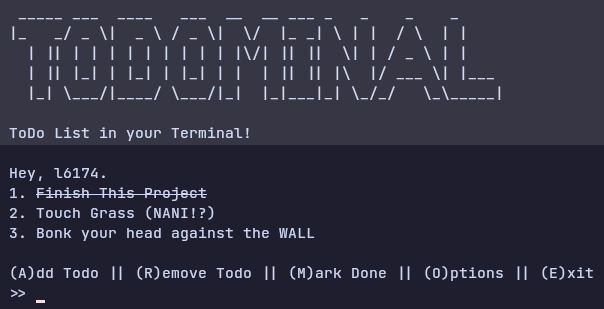
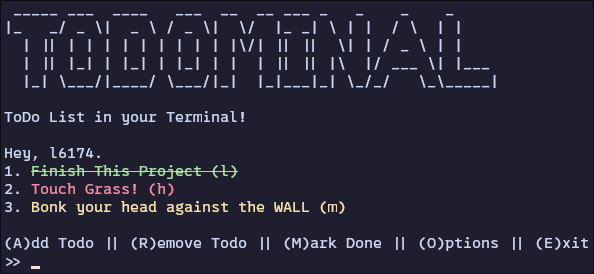
Fixed Rofi Support with Priorities

diff --git a/src/main.cpp b/src/main.cpp
@@ -13,10 +13,10 @@ const string userHome = getenv("HOME");
 const string mainFile = userHome + "/.config/todominal/todos.txt";
 
 // Define colors for priorities
-const string RED = "\033[1;31m";
-const string YELLOW = "\033[1;33m";
-const string GREEN = "\033[1;32m";
-const string RESET = "\033[0m";
+string RED = "\033[1;31m";
+string YELLOW = "\033[1;33m";
+string GREEN = "\033[1;32m";
+string RESET = "\033[0m";
 
 // Function to remove a line from a specific line from a file
 void removeLine(const string& filename, int lineNumberToRemove) {
@@ -153,11 +153,11 @@ void printTodo() {
         string line;
         while (getline(todos, line)) {
             string color;
-            if (line.find("[h]") != string::npos) {
+            if (line.find("(h)") != string::npos) {
                 color = RED;
-            } else if (line.find("[m]") != string::npos) {
+            } else if (line.find("(m)") != string::npos) {
                 color = YELLOW;
-            } else if (line.find("[l]") != string::npos) {
+            } else if (line.find("(l)") != string::npos) {
                 color = GREEN;
             } else {
                 color = RESET;
@@ -172,8 +172,43 @@ void printTodo() {
     }
 }
 
+void printTodoRofi() {
+    RED = "<span foreground=\"#f38ba8\">";
+    YELLOW = "<span foreground=\"#f9e2af\">";
+    GREEN = "<span foreground=\"#a6e3a1\">";
+    RESET = "</span>";
+    int i = 1;
+    ifstream todos(mainFile);
+    if (todos.is_open()) {
+        string line;
+        while (getline(todos, line)) {
+            string color;
+            if (line.find("(h)") != string::npos) {
+                color = RED;
+            } else if (line.find("(m)") != string::npos) {
+                color = YELLOW;
+            } else if (line.find("(l)") != string::npos) {
+                color = GREEN;
+            } else {
+                color = "<span>";
+            }
+            cout << i << ". " << color << line << RESET << endl;
+            i++;
+        }
+        todos.close();
+    } else {
+        cerr << "Unable to open file\n";
+        exit(1);
+    }
+}
 
 // Function to add a new todo
+void addTodoCli(string toAdded) {
+    ofstream todoFile(mainFile, ios::app);
+    todoFile << toAdded << endl;
+    todoFile.close();
+}
+
 void addTodo() {
     string todoName, priority;
     cout << "Enter New Todo Name: ";
@@ -181,12 +216,19 @@ void addTodo() {
     getline(cin, todoName);
     cout << "Enter Priority (High, Medium, Low): ";
     getline(cin, priority);
-    char priorityChar = tolower(priority[0]);
+    if (priority.empty())
+    {
+        todoName = todoName;
+    }
+    else
+    {
+        char priorityChar = tolower(priority[0]);
+        todoName = todoName + " (" + priorityChar + ")";
+    }
     ofstream todoFile(mainFile, ios::app);
-    todoFile << todoName << " [" << priorityChar << "]" << endl;
+    todoFile << todoName << endl;
     todoFile.close();
 }
-
 
 int main(int argc, char* argv[]) {
     // Create Todo database file if does not exist
@@ -218,6 +260,10 @@ int main(int argc, char* argv[]) {
             {
                 printTodo();
             }
+            else if (firstArg == "list-rofi")
+            {
+                printTodoRofi();
+            }
             else
             {
                 cout << helpBox;
@@ -229,7 +275,7 @@ int main(int argc, char* argv[]) {
             secondArg = argv[2];
             if (firstArg == "add")
             {
-                addTodo();
+                addTodoCli(secondArg);
             }
             else if (firstArg == "remove")
             {

diff --git a/README.md b/README.md
@@ -63,9 +63,10 @@ rofi -modi todo:todominal-rofi -show todo -theme <theme file location>
 ```
 **Add Task**:
 
-Enter your task name after a *hyphen* (```-```) in the rofi input field.
+Enter your task name after a *hyphen* (```-```) followed by priorty (l/m/h) in parentheses (x) in the rofi input field.
 
 Example: ```- Example Task```
+Example: ```- Example Task (m)```
 
 **Mark As Done**:
 
